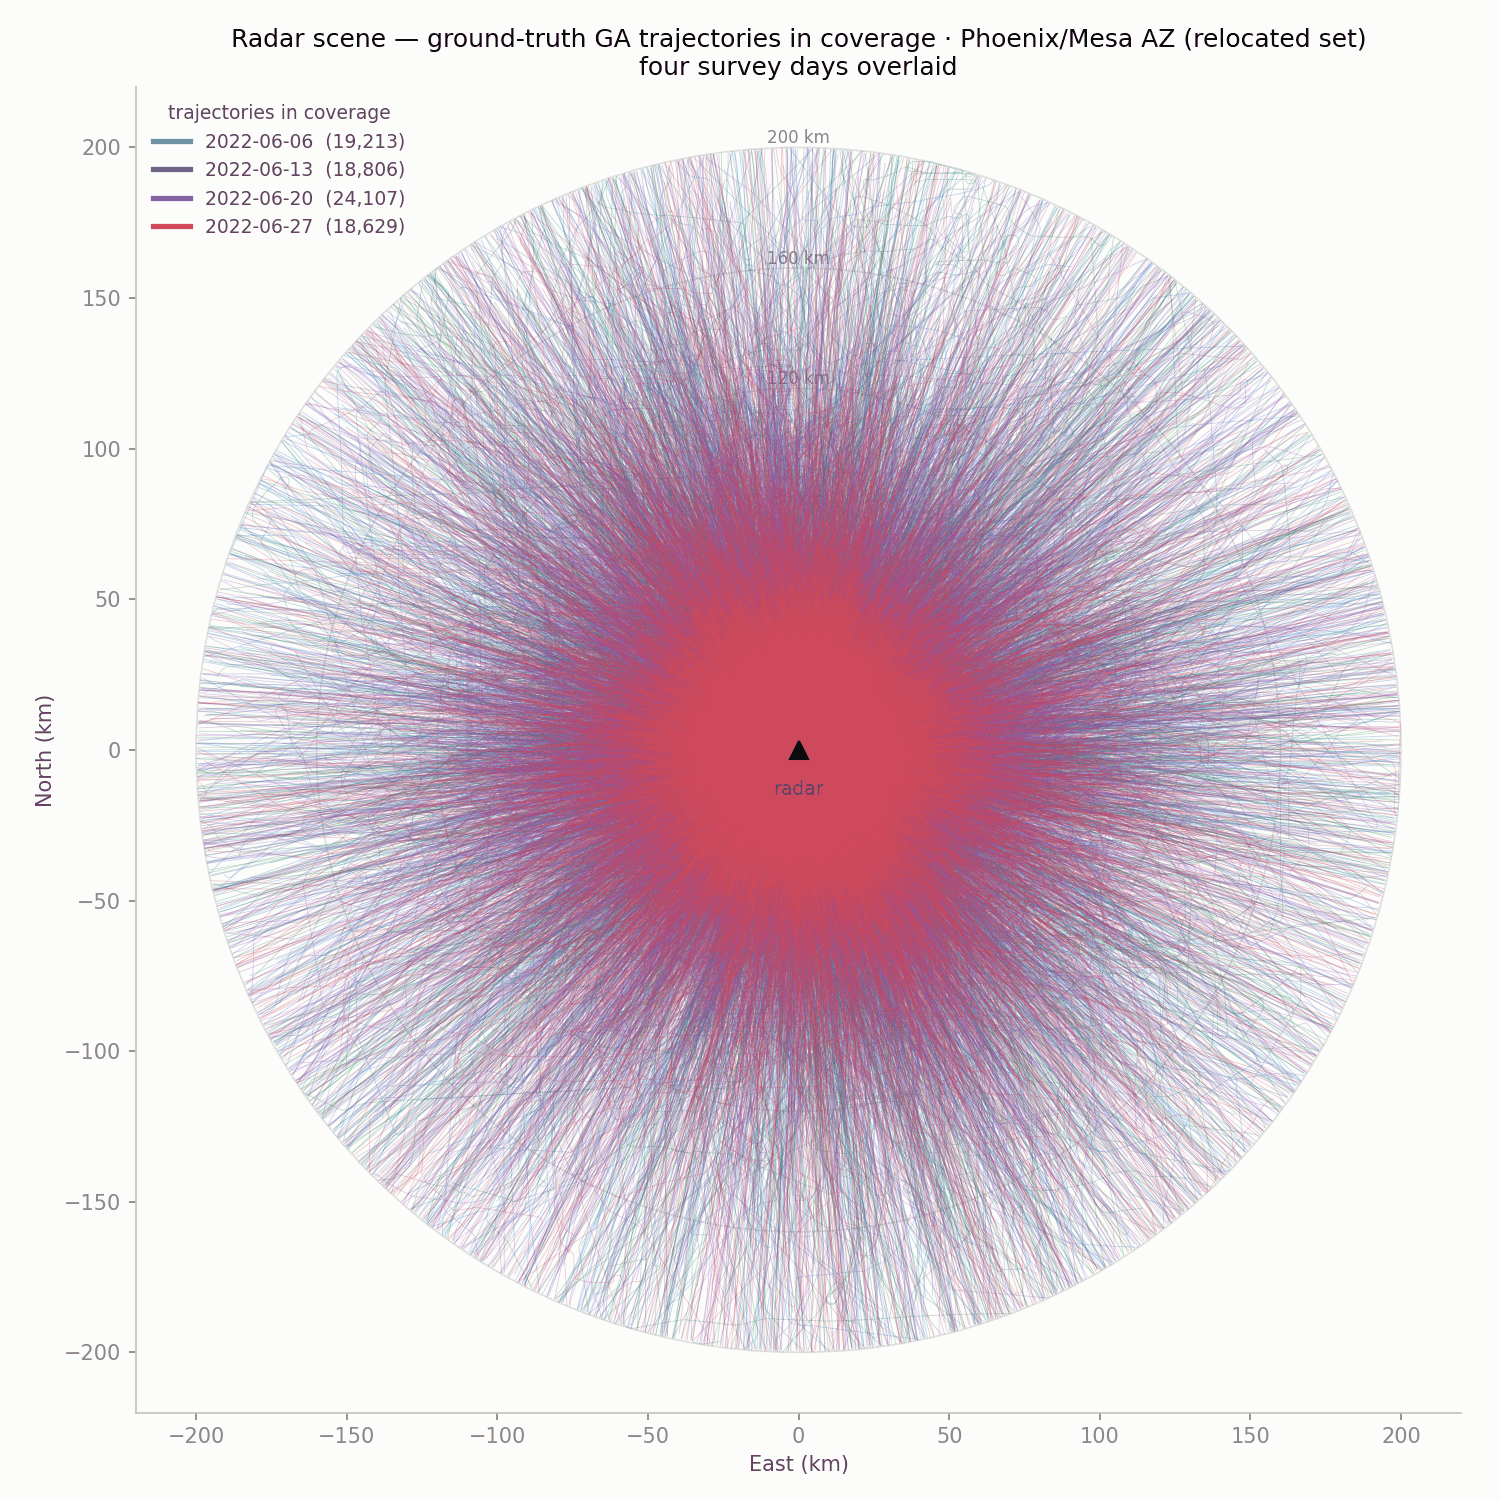
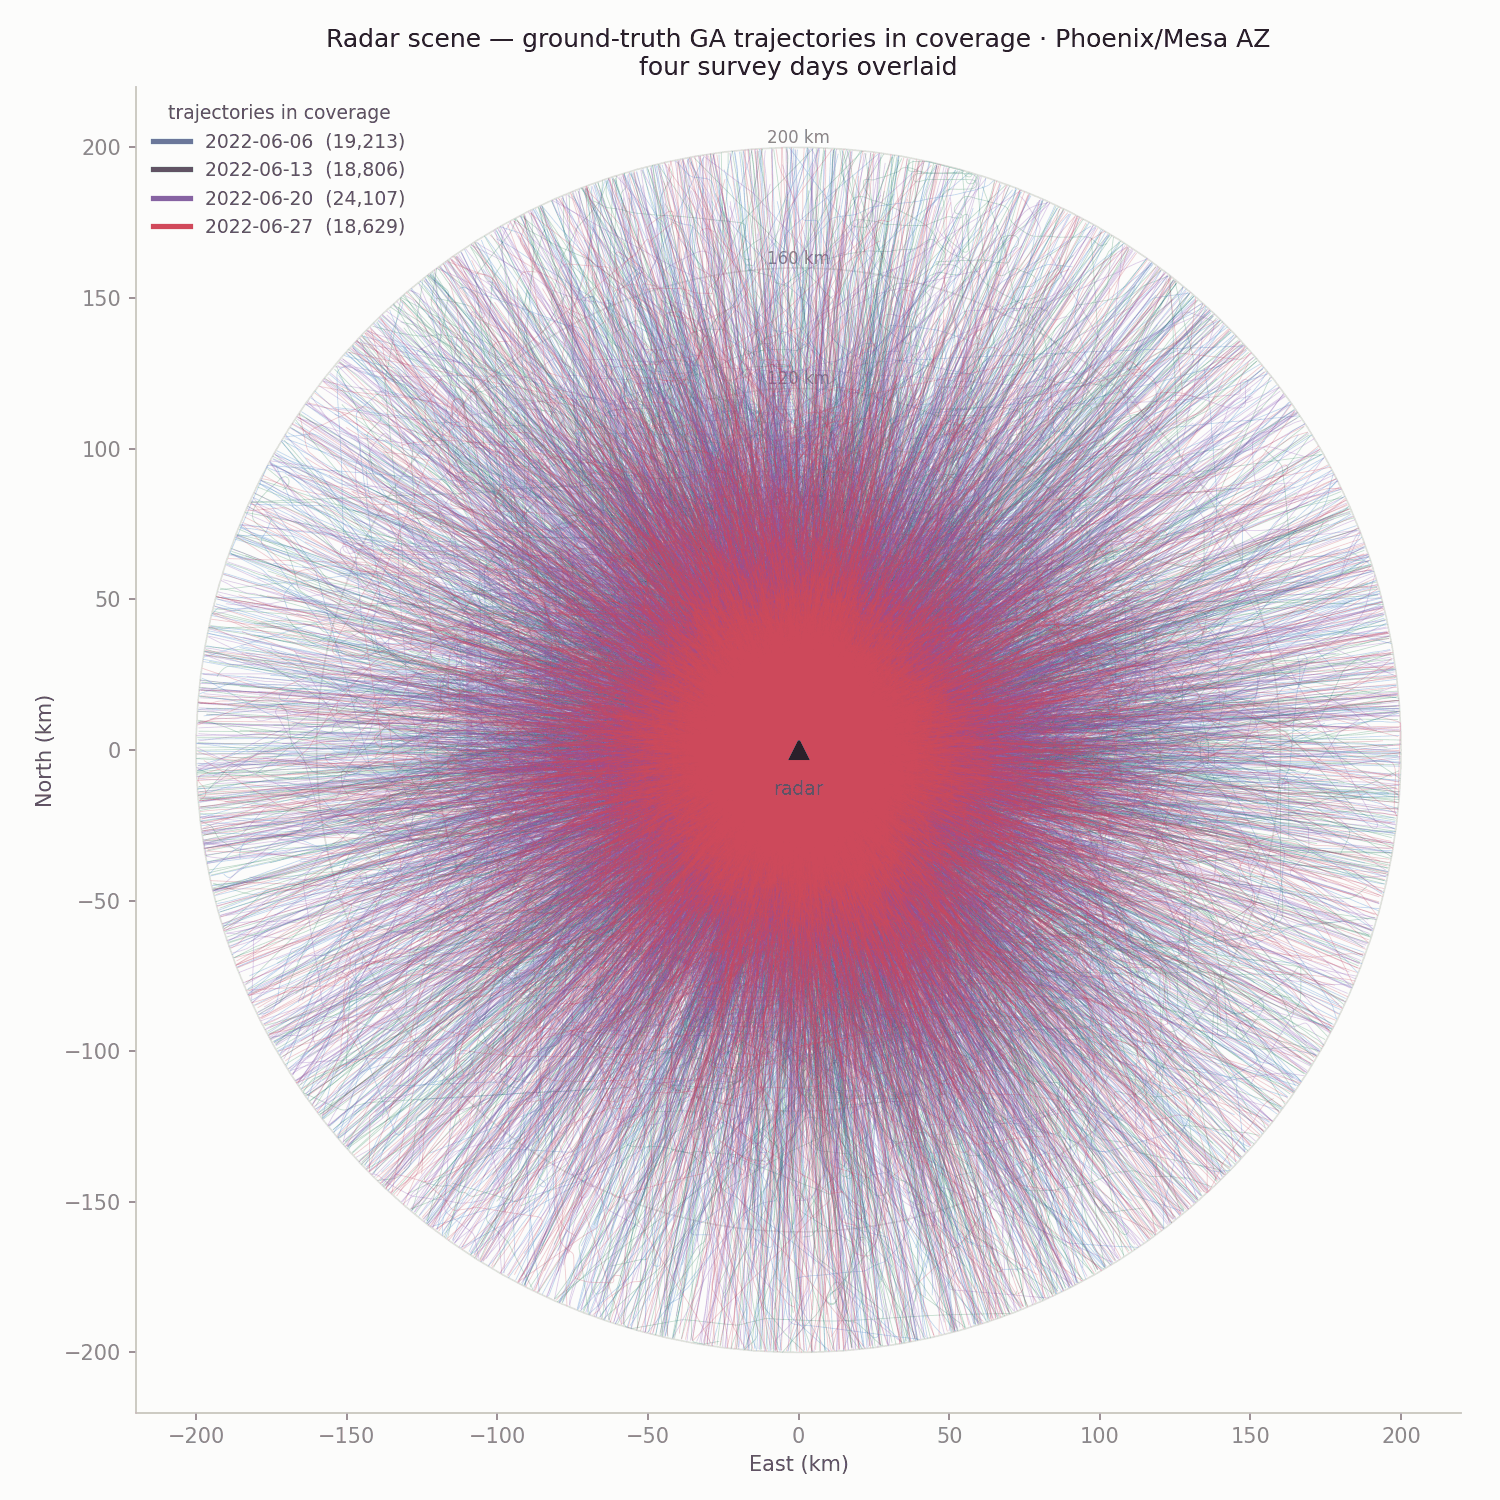
Make SideQuest = WHACK02 + relocation only: fold 05b into stage 5, drop 05b & 11
Per request, the sole difference from WHACK02-Radar is now the relocation:
- Fold the stage-5b relocation into scripts/05 (relocate_trajectories(),
  runs right after the scenario is frozen); delete 05b.
- Delete 11_trajectory_gallery.py + its figure; drop scikit-learn from
  requirements (only the gallery used it).
- Revert stage 10 to byte-identical WHACK02 (label).
- relocate.py: reword docstring (no longer a separate stage).

Result: scripts 06-10 and utils/{scenario,plots,beam_crossings,measurements,
geometry}.py are byte-identical to WHACK02; only scripts/05 (the relocation)
and utils/io.py (isolated data paths) differ, plus the one-file utils/
relocate.py. Re-ran green: detection 70.7 km, tracking 36.8 km.

README rewritten around the one-difference framing.

Changed region(s): [[0.1533, 0.0, 0.92, 0.0613], [0.5213, 0.4907, 0.552, 0.5213], [0.092, 0.092, 0.1227, 0.1227]]

diff --git a/scripts/05_radar_scenario.py b/scripts/05_radar_scenario.py
@@ -1,22 +1,25 @@
-"""Stage 5 (RadarSideQuest): choose the radar site from ground-truth traffic
-density, freeze the full radar scenario (coverage, accuracy, S-band link
-budget, CFAR floor, clutter map) into scenario.json, and produce the
-data-derived detection figures for one real flight.
+"""Stage 5 (RadarSideQuest): identical to WHACK02-Radar's stage 5, plus the
+one thing that makes this the SideQuest -- it RELOCATES every trajectory so
+its origin lands within 10 km of the radar.
 
-Site selection and the detection figures use the ORIGINAL WHACK01
-trajectories (the same site and radar physics as WHACK02-Radar); the
-relocation to within 10 km of the site happens afterwards in stage 5b, and
-stages 6-9 run on that relocated set. The detection figures illustrate the
-radar's range physics on a real out-and-back flight, which is independent of
-the relocation, so they are built from the source set into a SEPARATE
-beam-crossing cache (beam_crossings_source) that never touches the relocated
-cache stages 6-9 use.
+It (1) chooses the radar site from ground-truth traffic density, (2) freezes
+the full radar scenario (coverage, accuracy, S-band link budget, CFAR floor,
+clutter map) into scenario.json, (3) rigidly translates every WHACK01
+trajectory so its first point lands within 10 km of the site (see
+utils/relocate.py) into the relocated set that stages 6-9 consume, and
+(4) produces the data-derived detection figures for one real flight.
 
-The reference flight is N118AT, a Piper PA-44-180 Seminole (icao24 a049fd),
-outbound 8 -> 200 km.
+Site selection and the detection figures use the ORIGINAL trajectories (the
+same site and radar physics as WHACK02-Radar); the detection figures
+illustrate the radar's range physics on a real out-and-back flight, which is
+independent of the relocation, so they are built from the source set into a
+SEPARATE beam-crossing cache (beam_crossings_source) that never touches the
+relocated cache stages 6-9 use. The reference flight is N118AT, a Piper
+PA-44-180 Seminole (icao24 a049fd), outbound 8 -> 200 km.
 
 Outputs:
   scenario.json
+  the relocated trajectory set (active/sidequest/trajectories_10s/)
   3_ascope_8db_distance.png / 3_ascope_5db_distance.png
       echo power vs range across the whole flight (mean radar-equation curve
       + per-scan Swerling draws, detected/missed) against the Exp(1) noise
@@ -46,8 +49,10 @@ sys.path.insert(0, os.path.dirname(os.path.dirname(os.path.abspath(__file__))))
 from utils.beam_crossings import discover_input_files, ensure_beam_crossings
 from utils.io import (
     get_plot_dir, get_radar_dir, get_scenario_path, get_source_trajectories_dir,
+    get_trajectories_dir,
 )
 from utils.plots import C_NOISE, C_TARGET, GRID, INK, INK2, MUTED
+from utils.relocate import RADIUS_M, relocate_day
 from utils.scenario import C_M_S, Scenario, generate_clutter_patches, select_site
 
 # Reference flight for the detection figures (from the source set).
@@ -204,6 +209,25 @@ def plot_flight_track(sc, a, out_path, floor_db=8.0):
     fig.savefig(out_path, dpi=150); plt.close(fig)
 
 
+def relocate_trajectories(sc, source_dir):
+    """The one SideQuest step: rigidly translate every trajectory so its first
+    point lands within RADIUS_M of the site, writing the relocated per-day set
+    that stages 6-9 consume (see utils/relocate.py). Motion is preserved
+    exactly -- only geographic placement changes."""
+    out_dir = get_trajectories_dir()
+    os.makedirs(out_dir, exist_ok=True)
+    files = sorted(f for f in os.listdir(source_dir)
+                   if f.startswith("states_") and f.endswith("_trajectories_10s.csv"))
+    print(f"\nrelocating every trajectory to start within {RADIUS_M / 1000:.0f} km of the site...")
+    for i, name in enumerate(files):
+        date = name.split("_")[1]
+        df = pd.read_csv(os.path.join(source_dir, name), dtype={"icao24": str, "callsign": str})
+        rng = np.random.default_rng(sc.seed + 5000 + i)   # reproducible, distinct stream
+        out, stats = relocate_day(df, sc.site_lat_deg, sc.site_lon_deg, sc.range_max_m, rng)
+        out.to_csv(os.path.join(out_dir, name), index=False)
+        print(f"  {date}: {stats['relocated']}/{stats['trajectories']} relocated -> {name}")
+
+
 def make_detection_figures(sc, input_dir):
     """Build the SOURCE beam-crossing cache and render the real-flight figures.
     Uses a dedicated cache dir so stages 6-9's relocated cache is untouched."""
@@ -287,6 +311,9 @@ def main() -> None:
         print(f"  {r_km:>5} km | {snr_db:>6.1f} dB | {float(sc.pd(r_km * 1000.0)):>10.3f}")
 
     print(f"\nscenario written to: {os.path.abspath(output_path)}")
+
+    # The SideQuest step: relocate every trajectory origin to within 10 km.
+    relocate_trajectories(sc, input_dir)
 
     if not args.no_figures:
         make_detection_figures(sc, input_dir)

diff --git a/utils/relocate.py b/utils/relocate.py
@@ -1,4 +1,5 @@
-"""Stage 5b rules: relocate trajectories into the radar's neighbourhood.
+"""The SideQuest relocation, applied by stage 5: move trajectories into the
+radar's neighbourhood.
 
 WHACK01 produces GA trajectories all over the survey region. This variant
 rigidly translates EVERY trajectory so its FIRST point lands at a uniformly

diff --git a/scripts/10_radar_scene_days.py b/scripts/10_radar_scene_days.py
@@ -35,7 +35,7 @@ DAY_COLORS = {
     "2022-06-20": "#8a4fbd",   # purple
     "2022-06-27": "#d1495b",   # crimson
 }
-SITE_NAME = "Phoenix/Mesa AZ (relocated set)"
+SITE_NAME = "Phoenix/Mesa AZ"
 
 CROSSINGS_DIR = get_beam_crossings_dir()
 PLOT_DIR = get_plot_dir()

diff --git a/README.md b/README.md
@@ -4,7 +4,7 @@
 
 *S-band · fan-beam · Swerling-1 · derived link budget · a dense in-coverage stress test*
 
-A variant of [WHACK02-Radar](https://github.com/zheniannn/WHACK02-Radar). Same S-band radar, same physics, same progressive-complexity ladder — but a **stage 5b** first **rigidly translates every one of the ~82k WHACK01 trajectories** so its origin lands at a uniformly random point within **10 km** of the radar, preserving each flight's exact motion (speeds, turns, shape). The result is a **dense in-coverage scenario** where every flight originates near the site and fans outward.
+A variant of [WHACK02-Radar](https://github.com/zheniannn/WHACK02-Radar) whose **only** difference is one step folded into stage 5: it **rigidly translates every one of the ~82k WHACK01 trajectories** so its origin lands at a uniformly random point within **10 km** of the radar, preserving each flight's exact motion (speeds, turns, shape). Everything else — the S-band radar, the physics, stages 6–10 — is identical. The result is a **dense in-coverage scenario** where every flight originates near the site and fans outward.
 
 ![Relocated radar scene](docs/figures/1_radar_scene_all_days.png)
 
@@ -15,44 +15,39 @@ A variant of [WHACK02-Radar](https://github.com/zheniannn/WHACK02-Radar). Same S
 
 ## What's different from WHACK02-Radar
 
-Everything downstream of the trajectories is identical (the `utils/` radar code and stages 6–9 are copied verbatim). The variant adds exactly two things and isolates its data:
+Almost nothing — by design. Stages 6–10 and the entire `utils/` radar layer are **byte-identical** to WHACK02. The variant is exactly two things:
 
 | Piece | Role |
 |---|---|
-| `scripts/05b_relocate_trajectories.py` + `utils/relocate.py` | **The relocation** — rigid ENU translation of every trajectory so its first point is uniformly within 10 km of the radar; motion is translation-invariant, so speeds/turns/shape are preserved exactly |
-| `scripts/11_trajectory_gallery.py` | Data-driven KMeans clustering of trajectory *shapes* into flight archetypes |
-| `utils/io.py` | All outputs isolated under `active/sidequest/` and `plot/whack02-RadarSideQuest/` so nothing collides with WHACK02 |
+| the relocation step in `scripts/05_radar_scenario.py` (via `utils/relocate.py`) | **The one difference** — after freezing the scenario, stage 5 rigidly translates every trajectory so its first point is uniformly within 10 km of the radar; motion is translation-invariant, so speeds/turns/shape are preserved exactly |
+| `utils/io.py` | Outputs isolated under `active/sidequest/` and `plot/whack02-RadarSideQuest/` so nothing collides with WHACK02 |
 
-Stage 5 selects the site and builds the real-flight detection figures from the **original** trajectories (into a separate `beam_crossings_source` cache), since relocation happens afterwards in 5b; stages 6–9 then run on the relocated set.
+Stage 5 selects the site and builds the real-flight detection figures from the **original** trajectories (into a separate `beam_crossings_source` cache); the relocated set it writes is what stages 6–9 consume.
 
 ```mermaid
 flowchart LR
-    T["WHACK01 trajectories"] --> S5["stage 5<br/>S-band scenario"]
-    T --> R["stage 5b<br/>relocate origins &lt; 10 km"]
-    S5 --> R
-    R --> BC["beam-crossing cache<br/>(relocated)"]
+    T["WHACK01 trajectories"] --> S5["stage 5 · scenario<br/>+ relocate origins &lt; 10 km"]
+    S5 --> BC["beam-crossing cache<br/>(relocated)"]
     BC --> S6["6 · clean"] & S7["7 · +clutter/noise"] & S8["8 · horizon"] & S9["9 · full + 0 dB"]
 ```
 
 ## Quickstart
 
-Python ≥ 3.9 with `numpy`, `pandas`, `matplotlib`, `scikit-learn`:
+Python ≥ 3.9 with `numpy`, `pandas`, `matplotlib`:
 
 ```bash
 pip install -r requirements.txt
 ```
 
-Data root defaults to `data/` beside the repo (override with `WHACK_DATA_ROOT`); WHACK01's `active/trajectories_10s/` must be present. Then:
+Data root defaults to `data/` beside the repo (override with `WHACK_DATA_ROOT`); WHACK01's `active/trajectories_10s/` must be present. Then (identical to WHACK02, minus the relocation that stage 5 now does):
 
 ```bash
-python scripts/05_radar_scenario.py          # site + S-band link budget -> scenario.json + real-flight figures
-python scripts/05b_relocate_trajectories.py  # relocate every trajectory origin to within 10 km
+python scripts/05_radar_scenario.py          # site + link budget + RELOCATE origins + real-flight figures
 python scripts/06_trajectories_clean.py
 python scripts/07_trajectories_cluttered.py
 python scripts/08_trajectories_radar_equation.py
 python scripts/09_radar_equation_cluttered.py
-python scripts/10_radar_scene_days.py        # optional: relocated scene figures
-python scripts/11_trajectory_gallery.py      # optional: flight-shape gallery
+python scripts/10_radar_scene_days.py        # optional: scene figures
 ```
 
 Every stage ends with a validation gate (Pd vs the Swerling-1 closed form, false-alarm rate within 5σ) that raises on failure.
@@ -66,10 +61,6 @@ The real-flight detection figures (N118AT, outbound 8 → 200 km) illustrate the
 ![Echo vs distance](docs/figures/3_ascope_8db_distance.png)
 
 ![Flight track](docs/figures/3_flight_ppi.png)
-
-The flight shapes the relocation preserves (data-driven clustering across all four days):
-
-![Trajectory shape gallery](docs/figures/2_trajectory_shapes_gallery.png)
 
 ## The ladder, in figures (on the relocated set)
 
@@ -105,17 +96,14 @@ Detection matches WHACK02 (same radar), but the tracking limit is **lower** (36.
 ## Repository layout
 
 ```
-scripts/
-├── 05_radar_scenario.py               # site (source) + link budget -> scenario.json + real-flight figures
-├── 05b_relocate_trajectories.py       # relocate every trajectory origin to within 10 km
-├── 06..09_*.py                        # the ladder (identical to WHACK02, on the relocated set)
-├── 10_radar_scene_days.py             # relocated scene figures per day
-└── 11_trajectory_gallery.py           # flight-shape clustering gallery
+scripts/                             # 05..10 -- 06..10 are byte-identical to WHACK02
+├── 05_radar_scenario.py             # site + link budget + RELOCATE origins + real-flight figures
+├── 06..09_*.py                      # the ladder (identical to WHACK02, on the relocated set)
+└── 10_radar_scene_days.py           # scene figures per day (identical to WHACK02)
 utils/
 ├── io.py                # paths, isolated under active/sidequest & plot/whack02-RadarSideQuest
-├── relocate.py          # the rigid ENU relocation
-├── scenario.py          # the radar: S-band link budget, waveform, Swerling-1 (shared with WHACK02)
-├── geometry.py · beam_crossings.py · measurements.py · plots.py   # shared with WHACK02
+├── relocate.py          # the rigid ENU relocation (the one addition)
+├── scenario.py · geometry.py · beam_crossings.py · measurements.py · plots.py   # identical to WHACK02
 docs/figures/            # README images
 ```
 
@@ -125,7 +113,7 @@ docs/figures/            # README images
 <data root>/active/
 ├── trajectories_10s/                 # WHACK01 stage 4 output (read-only source)
 └── sidequest/
-    ├── trajectories_10s/             # stage 5b relocated set (stages 6-9 input)
+    ├── trajectories_10s/             # stage 5 relocated set (stages 6-9 input)
     └── radar/
         ├── scenario.json
         ├── beam_crossings/           # relocated-set cache (stages 6-9)